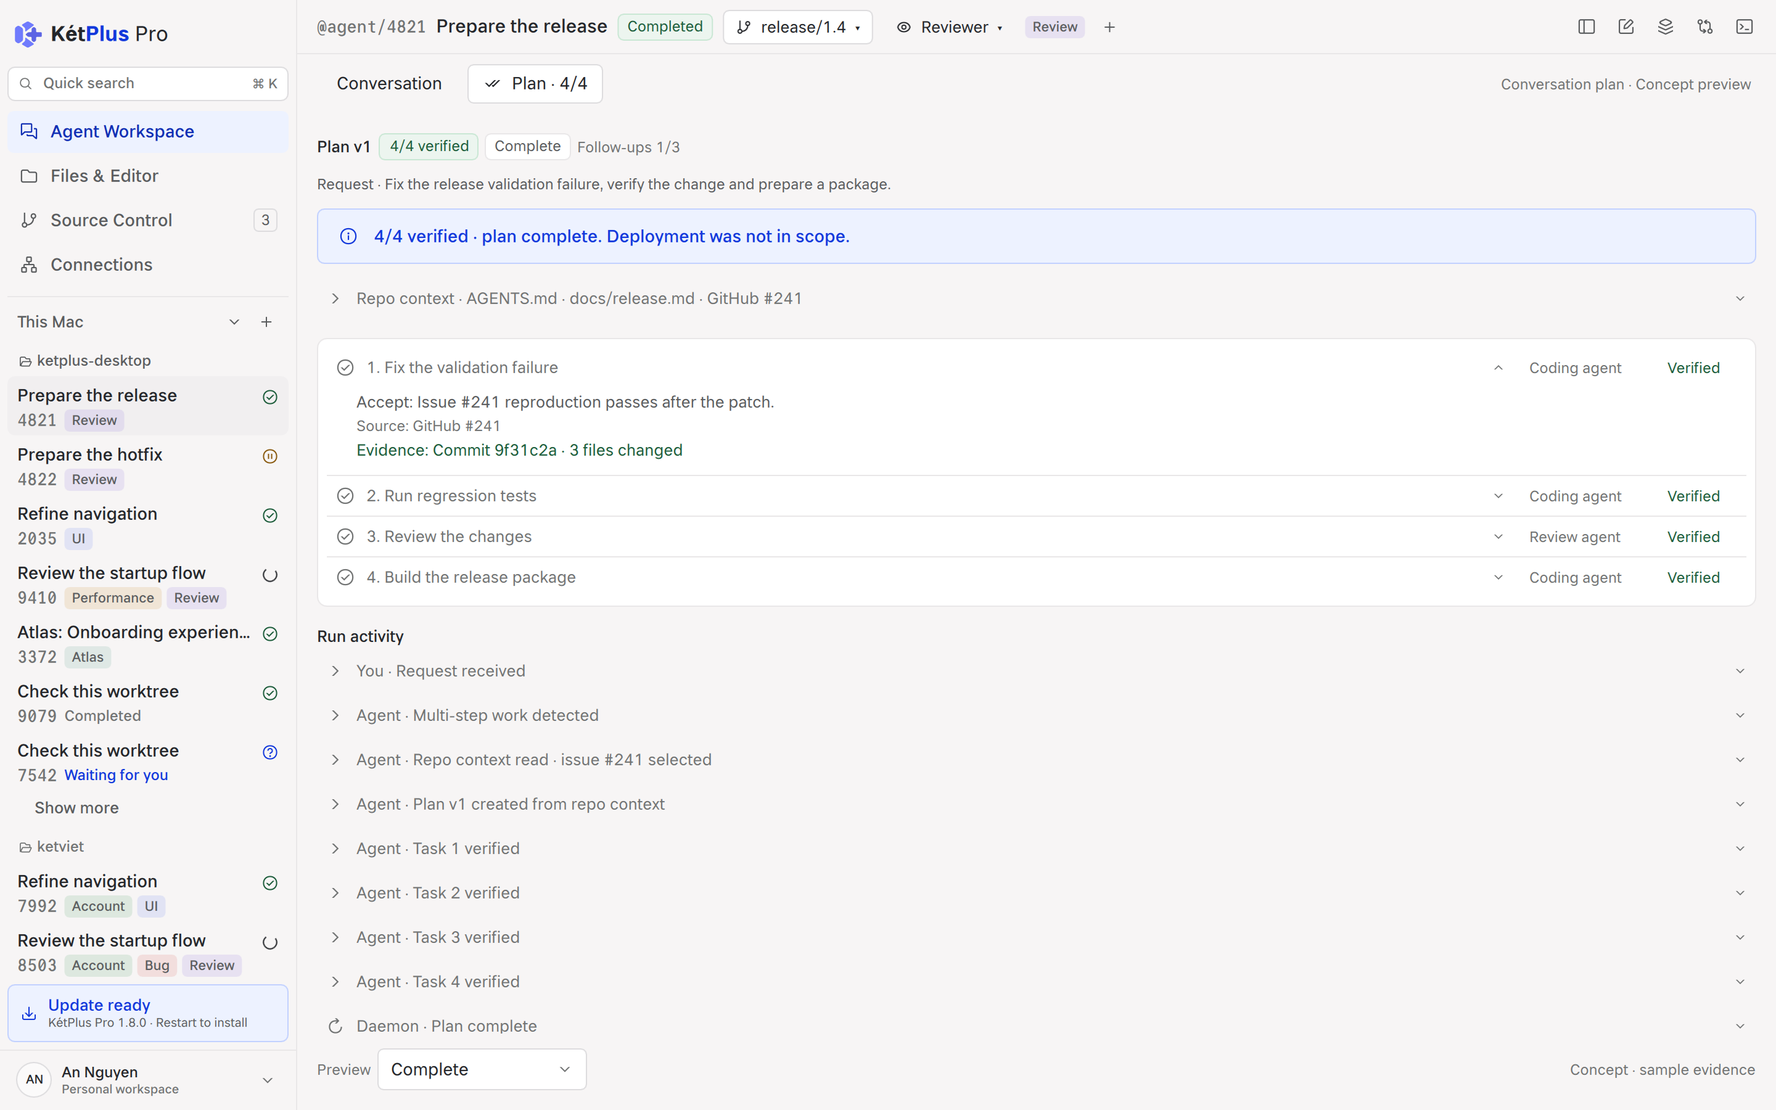
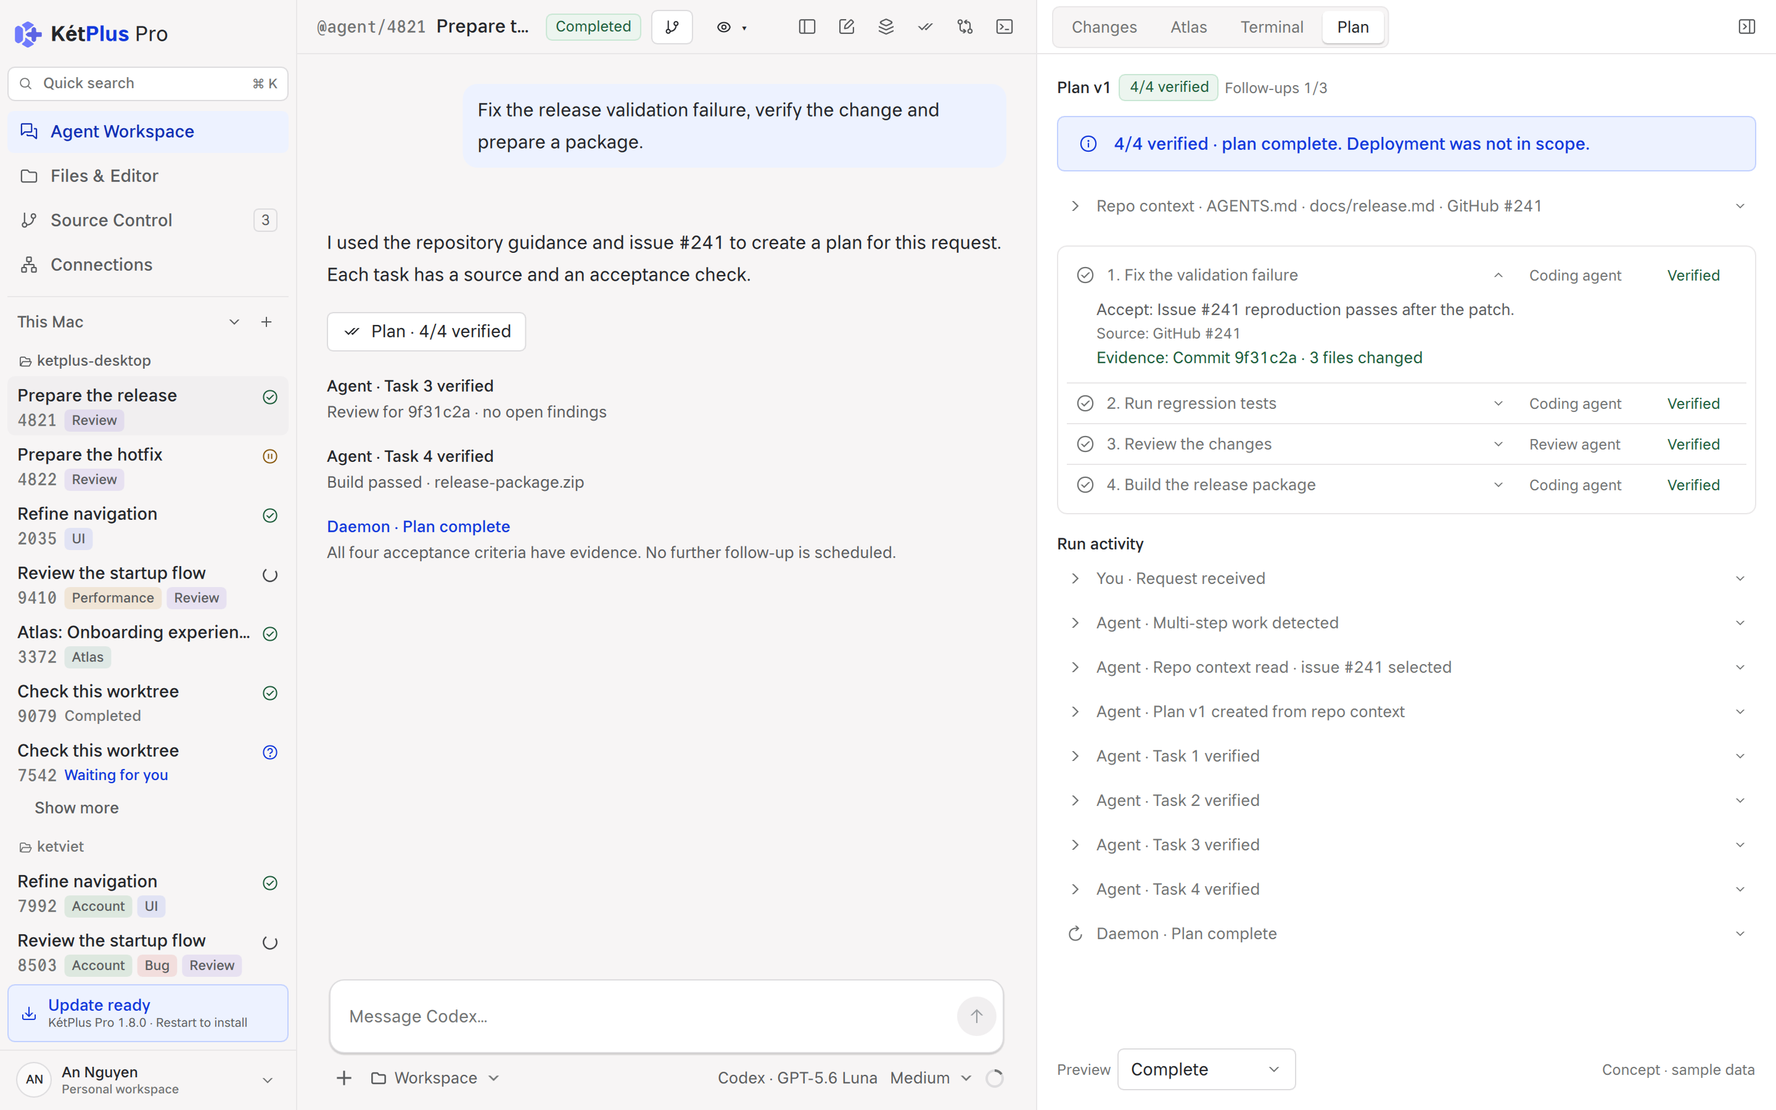
fix(mock): show conversation plans in the existing detail pane

diff --git a/mockups/qt/qml/screens/WorkspaceScreen.qml b/mockups/qt/qml/screens/WorkspaceScreen.qml
@@ -28,7 +28,6 @@ Item {
     readonly property var providerSetup: Fixtures.providerSetup[window.providerIssues[providerId] || ""] || null
     property bool showTasks: running
 
-    property bool planVisible: false
     property var planRun: null
     readonly property string planState: planRun ? planRun.status : ""
     ConversationPlanStore { id: planStore }
@@ -39,8 +38,9 @@ Item {
         syncPlan()
         if (!planRun) return
         if (state) planRun.load(state)
-        planVisible = true
-        detailsOpen = false
+        planRun.presented = true
+        detailsTab = "plan"
+        detailsOpen = true
     }
     function planStatus(number, fallback) {
         const model = planStore.plans[number]
@@ -50,7 +50,7 @@ Item {
         if (model.status === "paused") return KetTheme.ConversationStatus.Stopped
         return KetTheme.ConversationStatus.NeedsInput
     }
-    onConversationChanged: { planVisible = false; syncPlan() }
+    onConversationChanged: { detailsOpen = false; syncPlan() }
 
     function px(value) { return KetTheme.px(value, KetTheme.zoom) }
     function openComposerPanel(name) {
@@ -77,7 +77,11 @@ Item {
                 status: screen.planStatus(screen.conversation.number, screen.conversation.status)
                 detailsOpen: screen.detailsOpen
                 onToggleDetails: tab => {
-                    screen.planVisible = false
+                    if (tab === "plan") {
+                        if (screen.detailsOpen && screen.detailsTab === "plan") screen.detailsOpen = false
+                        else screen.openPlan("")
+                        return
+                    }
                     if (screen.detailsOpen && screen.detailsTab === tab)
                         screen.detailsOpen = false
                     else {
@@ -87,44 +91,8 @@ Item {
                 }
             }
 
-            RowLayout {
-                visible: !!screen.planRun
-                Layout.fillWidth: true
-                Layout.leftMargin: screen.px(20)
-                Layout.rightMargin: screen.px(20)
-                Layout.topMargin: screen.px(8)
-                Layout.bottomMargin: screen.px(8)
-                spacing: screen.px(8)
-                KetButton {
-                    text: "Conversation"
-                    variant: screen.planVisible ? KetTheme.ButtonVariant.Ghost : KetTheme.ButtonVariant.Secondary
-                    onClicked: screen.planVisible = false
-                }
-                KetButton {
-                    text: screen.planRun && screen.planRun.planCreated ? "Plan · " + screen.planRun.completed + "/4" : "Plan"
-                    iconName: "check-all"
-                    variant: screen.planVisible ? KetTheme.ButtonVariant.Secondary : KetTheme.ButtonVariant.Ghost
-                    onClicked: screen.openPlan("")
-                }
-                Item { Layout.fillWidth: true }
-                Text {
-                    text: "Conversation plan · Concept preview"
-                    color: KetTheme.t.textMuted
-                    font.family: KetTheme.fontFamily
-                    font.pixelSize: screen.px(12)
-                }
-            }
-            Loader {
-                active: !!screen.planRun
-                visible: screen.planVisible && active
-                Layout.fillWidth: true
-                Layout.fillHeight: true
-                sourceComponent: ConversationPlan { window: screen.window; run: screen.planRun }
-            }
-
             Basic.ScrollView {
                 id: scroll
-                visible: !screen.planVisible
                 Layout.fillWidth: true
                 Layout.fillHeight: true
                 clip: true
@@ -137,21 +105,34 @@ Item {
                                  * Math.max(0, scroll.contentItem.contentHeight - scroll.height)
                 }
 
-                Transcript {
+                Column {
                     width: scroll.availableWidth
-                    window: screen.window
-                    kind: screen.kind
-                    conversation: screen.conversation
-                    onOpenDetails: tab => {
-                        screen.detailsTab = tab
-                        screen.detailsOpen = true
+                    Loader {
+                        active: !!screen.planRun && screen.planRun.presented
+                        visible: active
+                        width: parent.width
+                        sourceComponent: ConversationPlanTranscript {
+                            window: screen.window
+                            run: screen.planRun
+                            onOpenPlan: screen.openPlan("")
+                        }
+                    }
+                    Transcript {
+                        visible: !screen.planRun || !screen.planRun.presented
+                        width: parent.width
+                        window: screen.window
+                        kind: screen.kind
+                        conversation: screen.conversation
+                        onOpenDetails: tab => {
+                            screen.detailsTab = tab
+                            screen.detailsOpen = true
+                        }
                     }
                 }
             }
 
             // The composer column matches the transcript's reading width.
             Column {
-                visible: !screen.planVisible
                 Layout.fillWidth: true
                 Layout.bottomMargin: screen.px(12)
                 spacing: screen.px(8)
@@ -190,7 +171,8 @@ Item {
                     anchors.horizontalCenter: parent.horizontalCenter
                     width: Math.min(parent.width - screen.px(48), screen.px(760))
                     window: screen.window
-                    busy: screen.running
+                    busy: screen.running || (!!screen.planRun && screen.planRun.presented && screen.planRun.active)
+                    onStopRequested: { if (screen.planRun && screen.planRun.presented) screen.planRun.stop() }
                     // The conversation's provider and model, when its fixture names them.
                     provider: screen.providerId
                     blocked: screen.setupId !== ""
@@ -217,8 +199,12 @@ Item {
             // Half of the workspace beside the rule: the pane matches the conversation's width.
             Layout.preferredWidth: Math.floor((screen.width - 1) / 2)
             window: screen.window
+            planRun: screen.planRun
             tab: screen.detailsTab
-            onTabChosen: tab => screen.detailsTab = tab
+            onTabChosen: tab => {
+                if (tab === "plan") screen.openPlan("")
+                else screen.detailsTab = tab
+            }
             onCloseRequested: screen.detailsOpen = false
         }
     }

diff --git a/mockups/qt/qml/parts/ConversationPlan.qml b/mockups/qt/qml/parts/ConversationPlan.qml
@@ -34,20 +34,13 @@ Item {
             Layout.fillWidth: true
             Label { text: run.planCreated ? "Plan v1" : "Automatic planning"; font.weight: Font.DemiBold }
             KetBadge { visible: run.planCreated; text: run.completed + "/4 verified"; tone: run.completed === 4 ? KetTheme.BadgeTone.Success : KetTheme.BadgeTone.Neutral }
-            KetBadge { text: screen.stateLabel; tone: run.active ? KetTheme.BadgeTone.Info : KetTheme.BadgeTone.Neutral }
             Label { visible: run.planCreated; text: "Follow-ups " + run.followUps + "/" + run.followUpLimit; color: KetTheme.t.textMuted; font.pixelSize: screen.px(12) }
             Item { Layout.fillWidth: true }
             KetButton { visible: run.status === "ready"; text: "Send sample prompt"; iconName: "arrow-right"; onClicked: run.submitPrompt() }
             KetButton { visible: run.active; text: "Stop run"; iconName: "stop-circle"; variant: KetTheme.ButtonVariant.Ghost; onClicked: run.stop() }
             KetButton { visible: run.status === "paused"; text: "Resume plan"; onClicked: run.resume() }
             KetButton { visible: run.status === "blocked"; text: "Retry check"; onClicked: run.retryBlocker() }
-            KetButton { visible: run.status === "limit"; text: "Allow one more follow-up"; onClicked: run.extendLimit() }
-        }
-        Label {
-            Layout.fillWidth: true
-            text: "Request · " + run.prompt
-            font.pixelSize: screen.px(12)
-            color: KetTheme.t.textSecondary
+            KetButton { visible: run.status === "limit"; text: "Allow +1 follow-up"; onClicked: run.extendLimit() }
         }
         KetBanner {
             Layout.fillWidth: true
@@ -186,18 +179,18 @@ Item {
             Layout.fillWidth: true
             Label { text: "Preview"; color: KetTheme.t.textMuted; font.pixelSize: screen.px(12) }
             KetSelect {
-                Layout.preferredWidth: screen.px(170)
+                Layout.preferredWidth: screen.px(145)
                 model: ["Before prompt", "Planning", "Working", "Early finish", "Blocked", "Stopped", "Limit reached", "Complete"]
                 currentIndex: ["ready", "planning", "running", "continuing", "blocked", "paused", "limit", "complete"].indexOf(run.status)
                 onActivated: index => run.load(["ready", "planning", "running", "continuing", "blocked", "paused", "limit", "complete"][index])
             }
             KetButton {
                 visible: (run.status === "continuing" || run.status === "planning") && !run.autoplay
-                text: run.status === "planning" ? "Play planning" : "Play continuation"; variant: KetTheme.ButtonVariant.Ghost
+                text: "Play"; variant: KetTheme.ButtonVariant.Ghost
                 onClicked: run.autoplay = true
             }
             Item { Layout.fillWidth: true }
-            Label { text: "Concept · sample evidence"; color: KetTheme.t.textMuted; font.pixelSize: screen.px(12) }
+            Label { text: "Concept · sample data"; color: KetTheme.t.textMuted; font.pixelSize: screen.px(12) }
         }
     }
 }

diff --git a/mockups/qt/qml/parts/ConversationPlanTranscript.qml b/mockups/qt/qml/parts/ConversationPlanTranscript.qml
@@ -1,0 +1,62 @@
+// SPDX-License-Identifier: MPL-2.0
+import QtQuick
+import Ket
+import KetPlusMock
+
+// The plan is conversation content. Its checklist opens in the existing detail pane.
+Column {
+    id: transcript
+    required property var window
+    required property var run
+    signal openPlan()
+    function px(n) { return KetTheme.px(n, KetTheme.zoom) }
+    topPadding: px(24)
+    bottomPadding: px(24)
+    spacing: px(20)
+
+    Column {
+        x: transcript.px(24)
+        width: parent.width - 2 * x
+        spacing: transcript.px(20)
+        KetUserMessage { width: parent.width; text: run.prompt }
+        MarkdownView {
+            width: parent.width
+            window: transcript.window
+            markdown: run.contextRead
+                ? "I used the repository guidance and issue #241 to create a plan for this request. Each task has a source and an acceptance check."
+                : run.status === "ready" ? "Send the sample prompt to preview automatic planning."
+                : "This needs several steps. I’m checking the repository memory and relevant open issues before creating a plan."
+        }
+        KetButton {
+            text: run.planCreated ? "Plan · " + run.completed + "/4 verified" : "View planning"
+            iconName: "check-all"
+            variant: KetTheme.ButtonVariant.Secondary
+            onClicked: transcript.openPlan()
+        }
+        Repeater {
+            model: run.events.filter(e => e.actor !== "You").slice(-3)
+            Column {
+                required property var modelData
+                width: parent.width
+                spacing: transcript.px(5)
+                Text {
+                    width: parent.width
+                    text: modelData.actor + " · " + modelData.title
+                    color: modelData.actor === "Daemon" ? KetTheme.t.accentText : KetTheme.t.textMain
+                    font.family: KetTheme.fontFamily
+                    font.pixelSize: transcript.px(13)
+                    font.weight: Font.Medium
+                    wrapMode: Text.Wrap
+                }
+                Text {
+                    width: parent.width
+                    text: modelData.detail
+                    color: KetTheme.t.textSecondary
+                    font.family: KetTheme.fontFamily
+                    font.pixelSize: transcript.px(13)
+                    wrapMode: Text.Wrap
+                }
+            }
+        }
+    }
+}

diff --git a/mockups/qt/qml/parts/DetailsPane.qml b/mockups/qt/qml/parts/DetailsPane.qml
@@ -12,7 +12,8 @@ Rectangle {
 
     required property var window
     property string tab: "changes"
-    readonly property var tabs: ["changes", "atlas", "terminal"]
+    property var planRun: null
+    readonly property var tabs: planRun ? ["changes", "atlas", "terminal", "plan"] : ["changes", "atlas", "terminal"]
 
     signal tabChosen(string tab)
     signal closeRequested()
@@ -32,7 +33,7 @@ Rectangle {
             KetSegmentedControl {
                 x: pane.px(12)
                 anchors.verticalCenter: parent.verticalCenter
-                options: ["Changes", "Atlas", "Terminal"]
+                options: pane.planRun ? ["Changes", "Atlas", "Terminal", "Plan"] : ["Changes", "Atlas", "Terminal"]
                 currentIndex: pane.tabs.indexOf(pane.tab)
                 onActivated: index => pane.tabChosen(pane.tabs[index])
             }
@@ -53,7 +54,7 @@ Rectangle {
             Layout.fillHeight: true
             clip: true
             contentWidth: availableWidth
-            visible: pane.tab !== "terminal"
+            visible: pane.tab === "changes" || pane.tab === "atlas"
 
             Column {
                 x: pane.px(16)
@@ -111,6 +112,14 @@ Rectangle {
                     }
                 }
             }
+        }
+
+        Loader {
+            active: !!pane.planRun
+            visible: active && pane.tab === "plan"
+            Layout.fillWidth: true
+            Layout.fillHeight: true
+            sourceComponent: ConversationPlan { window: pane.window; run: pane.planRun }
         }
 
         // A terminal in the conversation's worktree.

diff --git a/mockups/qt/qml/parts/ConversationHeader.qml b/mockups/qt/qml/parts/ConversationHeader.qml
@@ -142,7 +142,8 @@ Rectangle {
             anchors.verticalCenter: parent.verticalCenter
             controlSize: KetTheme.ControlSize.Small
             iconName: "branch"
-            text: header.conversation.worktree + "  ▾"
+            text: header.width < header.px(720) ? "" : header.conversation.worktree + "  ▾"
+            KetToolTip { visible: worktreeButton.hovered; text: header.conversation.worktree }
             onClicked: header.window.picker.open()
         }
 
@@ -210,6 +211,12 @@ Rectangle {
             checkable: true
             checked: header.detailsOpen
             onClicked: header.toggleDetails("atlas")
+        }
+        KetIconButton {
+            visible: !!header.conversation.hasPlan
+            iconName: "check-all"
+            text: "Conversation plan"
+            onClicked: header.toggleDetails("plan")
         }
         KetIconButton {
             iconName: "compare"

diff --git a/mockups/qt/qml/parts/ComposerBar.qml b/mockups/qt/qml/parts/ComposerBar.qml
@@ -14,6 +14,7 @@ Item {
 
     required property var window
     property bool busy: false
+    signal stopRequested()
     // The provider cannot start a turn yet: Send keeps the draft and says why.
     property bool blocked: false
     // The provider's setup state (Fixtures.providerSetup), shown on the model button.
@@ -73,7 +74,7 @@ Item {
             bar.window.notify("Sent to " + bar.providerLabel)
             composer.text = ""
         }
-        onStopRequested: bar.window.notify("Stopped the turn")
+        onStopRequested: { bar.stopRequested(); bar.window.notify("Stopped the turn") }
     }
 
     RowLayout {

diff --git a/mockups/qt/qml/parts/PlanRunModel.qml b/mockups/qt/qml/parts/PlanRunModel.qml
@@ -5,6 +5,7 @@ import QtQuick
 QtObject {
     id: run
     property string conversationId: ""
+    property bool presented: false
     property string status: "ready"
     property int completed: 0
     property int followUps: 0

diff --git a/mockups/qt/marketing/plan-harness/README.md b/mockups/qt/marketing/plan-harness/README.md
@@ -1,10 +1,10 @@
 # Conversation plan harness — concept mock
 
-The plan belongs to a conversation, not to a project-wide Planning screen. Open the **Plan** tab inside Agent Workspace. Conversation 4821 and 4822 have independent in-memory plans; switching conversations preserves progress, evidence, timers and follow-up budgets separately. No global Planning navigation item exists.
+The plan belongs to a conversation, not to a project-wide Planning screen. Open **Plan** in the conversation’s existing right content pane, beside Changes, Atlas and Terminal. The transcript and composer stay visible on the left; there is no Conversation / Plan switch above the transcript. Conversation 4821 and 4822 have independent in-memory plans; switching conversations preserves progress, evidence, timers and follow-up budgets separately. No global Planning navigation item exists.
 
 ## Compact presentation
 
-Each task is one row: completion icon, task title, owner and status. Expand a task to inspect its acceptance criterion and evidence. Activity entries are also one row; expand one for details. The conversation header and sidebar reflect the run state. The Plan tab shows the verified count.
+Each task is one row: completion icon, task title, owner and status. Expand a task to inspect its acceptance criterion and evidence. Activity entries are also one row; expand one for details. The conversation header and sidebar reflect the run state. An inline conversation action shows the verified count and reopens the right pane. The header checklist action opens the same pane. Closing the pane or changing its content does not stop or reset the plan.
 
 All text is English. The footer’s Preview selector and playback buttons are prototype controls, not proposed production controls. Concept labels and sample-evidence disclosures must remain when these captures are used in marketing.
 
@@ -44,7 +44,7 @@ Other direct states: `plan-running`, `plan-paused`, `plan-limit`. Direct state p
 - Standalone mock build passed.
 - QML model suite: 13 passed, 0 failed. Covers automatic timer continuation, conversation isolation, explicit stop/resume, blocker retention and follow-up limits.
 - Pro smoke: 55 screens, 0 QML problems. Lite smoke: 11 screens, 0 QML problems.
-- Inspected native captures for continuing and blocked in dark mode, and complete with collapsed and expanded evidence in light mode. All four tasks fit on single rows when collapsed.
+- Native captures cover planning, continuing and blocked in dark mode, and complete with collapsed and expanded evidence in light mode. The plan shares the existing half-width right pane; conversation content and the composer remain visible. All four tasks fit on single rows when collapsed.
 - Native click automation could not attach to the preview window (`cgWindowNotFound`). Button interactions were not verified by desktop automation; model transitions and the real QML timer were tested directly. No production daemon, package installation or external tracker was tested.
 
 ## Ownership contract for future implementation

diff --git a/mockups/qt/README.md b/mockups/qt/README.md
@@ -46,7 +46,7 @@ Screens and states (`--screen` / `--state`):
 | `connections` | `signed-out`, `expired`, `sign-in` | Signed out: the introduction (this Mac and KetPlus Mobile, the three pairing steps), the expired-login banner, the browser sign-in dialog |
 | `settings` | `typography`, `account`, `browser`, `computer`, `providers`, `archived`, `storage`, `updates` | The app's order: Appearance (live theme, follow system, zoom), typography, account, Agent models (opens the model picker), browser, computer use, providers (CLI status, Claude API access, organization usage), archive, storage (journal size by part, retention, size limit and warning, largest conversations, Compact now), updates |
 | `workspace` | `claude`, `codex`, `cursor` | One transcript per provider with every content type its journal produces (see Transcript content types); the composer follows the conversation's provider and model. `--scroll=0.5` starts the transcript part of the way down |
-| `workspace` | `plan-ready`, `plan-planning`, `plan-running`, `plan-continuing`, `plan-blocked`, `plan-paused`, `plan-limit`, `plan-complete` | Concept: the Plan tab belongs to the selected conversation. Automatic planning from repository context, compact tasks and source references, daemon follow-up, Stop, blocker and budget states. See [the harness preview](marketing/plan-harness/README.md). |
+| `workspace` | `plan-ready`, `plan-planning`, `plan-running`, `plan-continuing`, `plan-blocked`, `plan-paused`, `plan-limit`, `plan-complete` | Concept: Plan is conversation content in the existing right pane beside Changes / Atlas / Terminal; the transcript and composer remain visible. Automatic planning from repository context, compact tasks and source references, daemon follow-up, Stop, blocker and budget states. See [the harness preview](marketing/plan-harness/README.md). |
 | `workspace` | `turn-report` | English marketing sample: end-of-turn status, evidence, blockers, next actions and owners. Uses the existing final-answer Markdown table renderer; all release data is fictional. |
 | `workspace` | `storage-warning` | The sidebar's journal warning above Update ready; it opens Settings → Storage and clears after Compact now |
 | `workspace` | `setup-cli-missing`, `setup-cli-outdated`, `setup-signed-out`, `setup-claude-signed-out`, `setup-sidecar-missing` | A provider that cannot start a turn: a new conversation with its setup guide above the composer, which keeps the draft (see Provider setup) |
